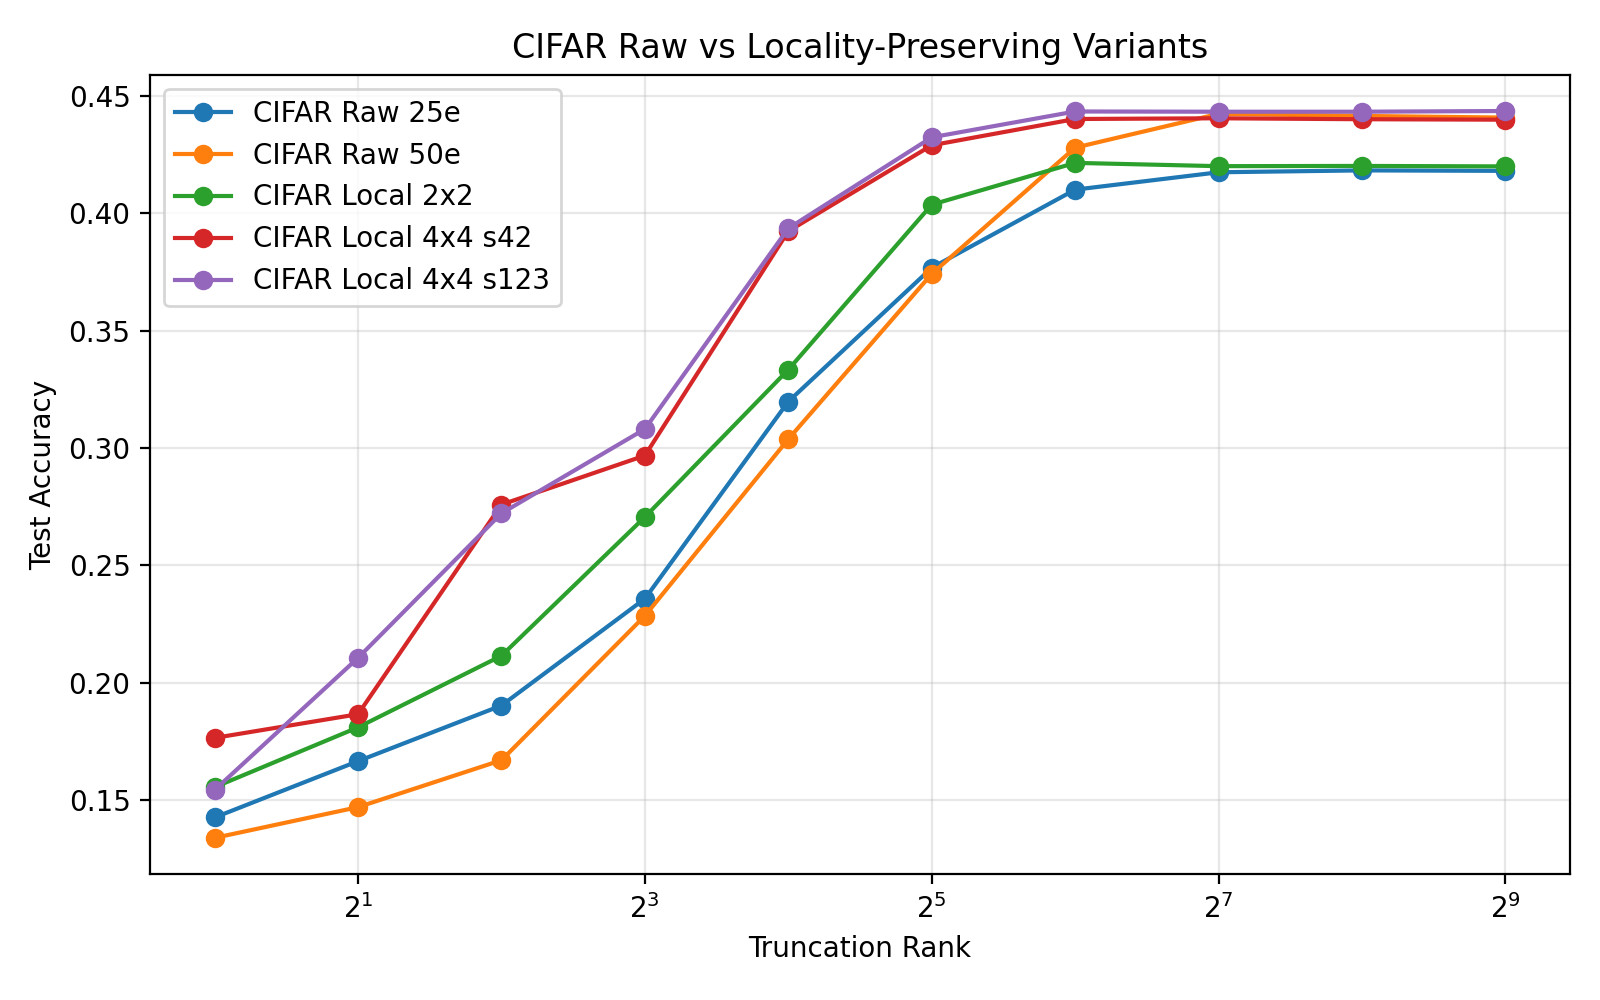
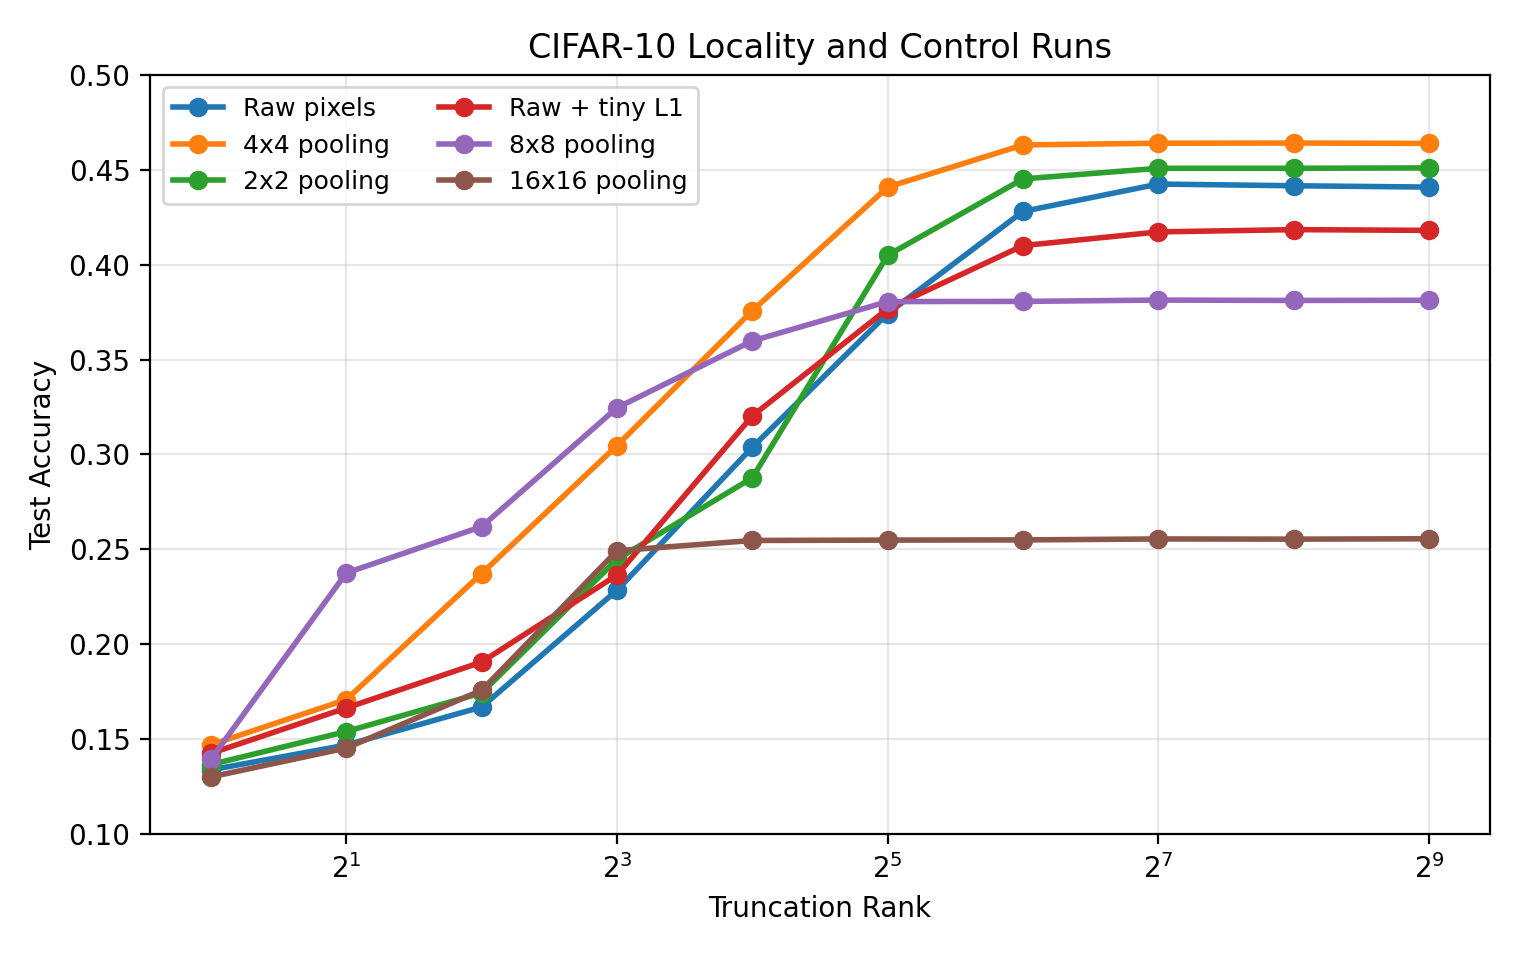
Finalize CIFAR report summary assets

Changed region(s): [[0.0, 0.0312, 0.9895, 0.9688], [0.8039, 0.2812, 0.8967, 0.3438], [0.5566, 0.5312, 0.6184, 0.5938]]

diff --git a/scripts/build_task_d_report_assets.py b/scripts/build_task_d_report_assets.py
@@ -59,14 +59,84 @@ RUNS = [
         'truncation': 'results/truncation/cifar10_locality4_seed123_mps_20260412-231948/test_truncation.csv',
         'kind': 'redesign',
     },
+    {
+        'label': 'CIFAR Local 4x4 50e',
+        'run_name': 'cifar10_locality4_50e_mps_20260427-224921',
+        'metrics': 'results/metrics/cifar10_locality4_50e_mps_20260427-224921/summary.json',
+        'truncation': 'results/truncation/cifar10_locality4_50e_mps_20260427-224921/test_truncation.csv',
+        'kind': 'redesign',
+    },
+    {
+        'label': 'CIFAR Local 4x4 50e wd=.01',
+        'run_name': 'cifar10_locality4_wd001_50e_mps_20260427-225245',
+        'metrics': 'results/metrics/cifar10_locality4_wd001_50e_mps_20260427-225245/summary.json',
+        'truncation': 'results/truncation/cifar10_locality4_wd001_50e_mps_20260427-225245/test_truncation.csv',
+        'kind': 'redesign',
+    },
+    {
+        'label': 'CIFAR Local 2x2 50e',
+        'run_name': 'cifar10_locality2_50e_mps_20260427-225510',
+        'metrics': 'results/metrics/cifar10_locality2_50e_mps_20260427-225510/summary.json',
+        'truncation': 'results/truncation/cifar10_locality2_50e_mps_20260427-225510/test_truncation.csv',
+        'kind': 'redesign',
+    },
+    {
+        'label': 'CIFAR Raw 25e + L1',
+        'run_name': 'cifar10_l1tiny_mps_20260422-203929',
+        'metrics': 'results/metrics/cifar10_l1tiny_mps_20260422-203929/summary.json',
+        'truncation': 'results/truncation/cifar10_l1tiny_mps_20260422-203929/test_truncation.csv',
+        'kind': 'control',
+    },
+    {
+        'label': 'CIFAR Local 8x8',
+        'run_name': 'cifar10_locality8_mps_20260422-204446',
+        'metrics': 'results/metrics/cifar10_locality8_mps_20260422-204446/summary.json',
+        'truncation': 'results/truncation/cifar10_locality8_mps_20260422-204446/test_truncation.csv',
+        'kind': 'redesign',
+    },
+    {
+        'label': 'CIFAR Local 16x16 s42',
+        'run_name': 'cifar10_locality16_mps_20260422-204115',
+        'metrics': 'results/metrics/cifar10_locality16_mps_20260422-204115/summary.json',
+        'truncation': 'results/truncation/cifar10_locality16_mps_20260422-204115/test_truncation.csv',
+        'kind': 'redesign',
+    },
+    {
+        'label': 'CIFAR Local 16x16 s123',
+        'run_name': 'cifar10_locality16_seed123_mps_20260422-204255',
+        'metrics': 'results/metrics/cifar10_locality16_seed123_mps_20260422-204255/summary.json',
+        'truncation': 'results/truncation/cifar10_locality16_seed123_mps_20260422-204255/test_truncation.csv',
+        'kind': 'redesign',
+    },
 ]
+
+PRIMARY_FIGURE_LABELS = {
+    'MNIST': 'MNIST baseline',
+    'CIFAR Raw 50e': 'CIFAR raw pixels',
+    'CIFAR Local 4x4 50e wd=.01': 'CIFAR 4x4 pooled',
+}
+
+CIFAR_FIGURE_LABELS = {
+    'CIFAR Raw 50e': 'Raw pixels',
+    'CIFAR Raw 25e + L1': 'Raw + tiny L1',
+    'CIFAR Local 2x2 50e': '2x2 pooling',
+    'CIFAR Local 4x4 50e wd=.01': '4x4 pooling',
+    'CIFAR Local 8x8': '8x8 pooling',
+    'CIFAR Local 16x16 s42': '16x16 pooling',
+}
 
 
 def build_summary_table(output_dir: Path) -> pd.DataFrame:
     rows = []
     for run in RUNS:
         metrics = pd.read_json(run['metrics'], typ='series')
+        history = pd.read_csv(Path(run['metrics']).with_name('metrics.csv'))
         truncation = pd.read_csv(run['truncation'])
+        truncation_summary = pd.read_json(
+            Path(run['truncation']).with_name('test_summary.json'),
+            typ='series',
+        )
+        rank_efficiency = truncation_summary['rank_efficiency']
         lookup = {int(row.rank): float(row.accuracy) for row in truncation.itertuples(index=False)}
         rows.append(
             {
@@ -74,35 +144,65 @@ def build_summary_table(output_dir: Path) -> pd.DataFrame:
                 'run_name': run['run_name'],
                 'kind': run['kind'],
                 'best_val_acc': float(metrics['best_val_acc']),
+                'best_val_loss': float(history['val_loss'].min()),
                 'test_acc': float(metrics['test_acc_at_best_val']),
                 'rank_16_acc': lookup.get(16),
                 'rank_32_acc': lookup.get(32),
                 'rank_64_acc': lookup.get(64),
                 'full_rank_acc': float(truncation.iloc[-1]['accuracy']),
+                'rank_for_90pct_full': rank_efficiency['rank_for_90pct_full'],
+                'rank_for_95pct_full': rank_efficiency['rank_for_95pct_full'],
+                'rank_for_99pct_full': rank_efficiency['rank_for_99pct_full'],
             }
         )
 
     table = pd.DataFrame(rows)
     table.to_csv(output_dir / 'task_d_summary_table.csv', index=False)
+
+    report_columns = {
+        'label': 'Run',
+        'kind': 'Kind',
+        'best_val_acc': 'Best Val Acc',
+        'best_val_loss': 'Best Val Loss',
+        'test_acc': 'Test Acc',
+        'rank_32_acc': 'Rank-32 Acc',
+        'rank_64_acc': 'Rank-64 Acc',
+        'rank_for_90pct_full': 'Rank @ 90%',
+        'rank_for_95pct_full': 'Rank @ 95%',
+        'rank_for_99pct_full': 'Rank @ 99%',
+    }
+    report_table = table[list(report_columns)].rename(columns=report_columns)
+    for column in ['Best Val Acc', 'Test Acc', 'Rank-32 Acc', 'Rank-64 Acc']:
+        report_table[column] = report_table[column].map(lambda value: f'{100.0 * value:.2f}%')
+    report_table['Best Val Loss'] = report_table['Best Val Loss'].map(lambda value: f'{value:.4f}')
+
     markdown_lines = [
-        '| ' + ' | '.join(table.columns) + ' |',
-        '| ' + ' | '.join(['---'] * len(table.columns)) + ' |',
+        '| ' + ' | '.join(report_table.columns) + ' |',
+        '| ' + ' | '.join(['---'] * len(report_table.columns)) + ' |',
     ]
-    for row in table.itertuples(index=False):
+    for row in report_table.itertuples(index=False):
         markdown_lines.append('| ' + ' | '.join(str(value) for value in row) + ' |')
     (output_dir / 'task_d_summary_table.md').write_text('\n'.join(markdown_lines) + '\n', encoding='utf-8')
     return table
 
 
 def plot_truncation_curves(output_dir: Path) -> None:
-    plt.figure(figsize=(8, 5))
-    for run in RUNS:
+    selected = [run for run in RUNS if run['label'] in PRIMARY_FIGURE_LABELS]
+    plt.figure(figsize=(7.2, 4.8))
+    for run in selected:
         truncation = pd.read_csv(run['truncation'])
-        plt.plot(truncation['rank'], truncation['accuracy'], marker='o', label=run['label'])
+        plt.plot(
+            truncation['rank'],
+            truncation['accuracy'],
+            marker='o',
+            linewidth=2.2,
+            label=PRIMARY_FIGURE_LABELS[run['label']],
+        )
     plt.xscale('log', base=2)
     plt.xlabel('Truncation Rank')
     plt.ylabel('Test Accuracy')
-    plt.title('Task D Truncation vs Accuracy')
+    plt.title('Bilinear Spectrum: MNIST vs CIFAR-10')
+    plt.ylim(0.1, 1.02)
     plt.legend()
     plt.grid(alpha=0.3)
     plt.tight_layout()
@@ -111,16 +211,23 @@ def plot_truncation_curves(output_dir: Path) -> None:
 
 
 def plot_cifar_comparison(output_dir: Path) -> None:
-    selected = [run for run in RUNS if run['label'].startswith('CIFAR')]
-    plt.figure(figsize=(8, 5))
+    selected = [run for run in RUNS if run['label'] in CIFAR_FIGURE_LABELS]
+    plt.figure(figsize=(7.6, 4.8))
     for run in selected:
         truncation = pd.read_csv(run['truncation'])
-        plt.plot(truncation['rank'], truncation['accuracy'], marker='o', label=run['label'])
+        plt.plot(
+            truncation['rank'],
+            truncation['accuracy'],
+            marker='o',
+            linewidth=2.0,
+            label=CIFAR_FIGURE_LABELS[run['label']],
+        )
     plt.xscale('log', base=2)
     plt.xlabel('Truncation Rank')
     plt.ylabel('Test Accuracy')
-    plt.title('CIFAR Raw vs Locality-Preserving Variants')
-    plt.legend()
+    plt.title('CIFAR-10 Locality and Control Runs')
+    plt.ylim(0.1, 0.5)
+    plt.legend(ncol=2, fontsize=9)
     plt.grid(alpha=0.3)
     plt.tight_layout()
     plt.savefig(output_dir / 'task_d_cifar_truncation_curves.png', dpi=200)
@@ -131,16 +238,19 @@ def write_narrative(summary: pd.DataFrame, output_dir: Path) -> None:
     raw_50 = summary.loc[summary['label'] == 'CIFAR Raw 50e'].iloc[0]
     local_42 = summary.loc[summary['label'] == 'CIFAR Local 4x4 s42'].iloc[0]
     local_123 = summary.loc[summary['label'] == 'CIFAR Local 4x4 s123'].iloc[0]
+    local_best = summary.loc[summary['label'] == 'CIFAR Local 4x4 50e wd=.01'].iloc[0]
 
     narrative = f"""# Task D Narrative
 
 ## Main finding
 
-Task D now supports a clean three-stage story:
+The CIFAR extension now supports a clean compatibility story:
 
 1. MNIST is strongly low-rank under the bilinear decomposition framework.
 2. Raw-pixel CIFAR-10 trains, but remains broad-spectrum even after longer training.
-3. Adding locality-preserving preprocessing makes CIFAR-10 substantially more compressible under the same decomposition analysis.
+3. Scalar controls such as width, weight decay, and tiny L1 do not fix that broad-spectrum behavior.
+4. Adding locality-preserving preprocessing makes CIFAR-10 substantially more compressible under the same decomposition analysis.
+5. The benefit is not monotone: `4x4` pooling is a strong regime, while `16x16` pooling overcompresses the task.
 
 ## Raw-pixel completion
 
@@ -152,19 +262,36 @@ Task D now supports a clean three-stage story:
 
 Interpretation: the raw-pixel CIFAR extension is complete, but the resulting spectrum remains broad.
 
+## Failed controls
+
+- Matched-budget tiny-L1 control: `cifar10_l1tiny_mps_20260422-203929`, test accuracy `0.4180`, rank-64 accuracy `0.4100`
+
+Interpretation: scalar regularization does not explain the pooled-model gain.
+
 ## Locality-preserving redesign
 
 - Seed 42 run: `{local_42['run_name']}`, test accuracy `{local_42['test_acc']:.4f}`, rank-64 accuracy `{local_42['rank_64_acc']:.4f}`
 - Seed 123 run: `{local_123['run_name']}`, test accuracy `{local_123['test_acc']:.4f}`, rank-64 accuracy `{local_123['rank_64_acc']:.4f}`
+- Tuned 50-epoch run: `{local_best['run_name']}`, test accuracy `{local_best['test_acc']:.4f}`, rank-64 accuracy `{local_best['rank_64_acc']:.4f}`
 
-Interpretation: the `4x4` locality-preserving redesign is stable across two seeds and reaches essentially full-rank performance by rank 64.
+Interpretation: the `4x4` locality-preserving redesign is stable across two seeds, clears the raw-student Task G baseline when trained for 50 epochs, and reaches essentially full-rank performance by rank 64.
+
+## Locality-strength tradeoff
+
+- Intermediate `8x8` pooling: `cifar10_locality8_mps_20260422-204446`, test accuracy `0.3812`, rank-32 accuracy `0.3805`
+- Aggressive `16x16` pooling: `cifar10_locality16_mps_20260422-204115`, test accuracy `0.2556`, rank-8 accuracy `0.2493`
+- Replication: `cifar10_locality16_seed123_mps_20260422-204255`, test accuracy `0.2570`, rank-8 accuracy `0.2543`
+
+Interpretation: stronger pooling keeps making the spectrum more compressible, but beyond `4x4` it removes too much semantic content from CIFAR-10.
 
 ## Report recommendation
 
-Frame Extension 1 as a negative-to-positive result:
+Frame Extension 1 / Task I as a compatibility result:
 
 - Raw-pixel CIFAR-10 shows that the MNIST result does not directly transfer.
+- Scalar controls do not fix the problem.
 - Locality-preserving CIFAR-10 shows that the weight-based analysis becomes much more compatible with natural images once basic spatial structure is restored.
+- The best regime is moderate locality bias, not maximal pooling.
 """
     (output_dir / 'task_d_narrative.md').write_text(narrative, encoding='utf-8')
 

diff --git a/report_assets/task_d/task_d_narrative.md b/report_assets/task_d/task_d_narrative.md
@@ -2,11 +2,13 @@
 
 ## Main finding
 
-Task D now supports a clean three-stage story:
+The CIFAR extension now supports a clean compatibility story:
 
 1. MNIST is strongly low-rank under the bilinear decomposition framework.
 2. Raw-pixel CIFAR-10 trains, but remains broad-spectrum even after longer training.
-3. Adding locality-preserving preprocessing makes CIFAR-10 substantially more compressible under the same decomposition analysis.
+3. Scalar controls such as width, weight decay, and tiny L1 do not fix that broad-spectrum behavior.
+4. Adding locality-preserving preprocessing makes CIFAR-10 substantially more compressible under the same decomposition analysis.
+5. The benefit is not monotone: `4x4` pooling is a strong regime, while `16x16` pooling overcompresses the task.
 
 ## Raw-pixel completion
 
@@ -18,16 +20,33 @@ Task D now supports a clean three-stage story:
 
 Interpretation: the raw-pixel CIFAR extension is complete, but the resulting spectrum remains broad.
 
+## Failed controls
+
+- Matched-budget tiny-L1 control: `cifar10_l1tiny_mps_20260422-203929`, test accuracy `0.4180`, rank-64 accuracy `0.4100`
+
+Interpretation: scalar regularization does not explain the pooled-model gain.
+
 ## Locality-preserving redesign
 
 - Seed 42 run: `cifar10_locality4_mps_20260412-231256`, test accuracy `0.4399`, rank-64 accuracy `0.4402`
 - Seed 123 run: `cifar10_locality4_seed123_mps_20260412-231948`, test accuracy `0.4436`, rank-64 accuracy `0.4434`
+- Tuned 50-epoch run: `cifar10_locality4_wd001_50e_mps_20260427-225245`, test accuracy `0.4638`, rank-64 accuracy `0.4630`
 
-Interpretation: the `4x4` locality-preserving redesign is stable across two seeds and reaches essentially full-rank performance by rank 64.
+Interpretation: the `4x4` locality-preserving redesign is stable across two seeds, clears the raw-student Task G baseline when trained for 50 epochs, and reaches essentially full-rank performance by rank 64.
+
+## Locality-strength tradeoff
+
+- Intermediate `8x8` pooling: `cifar10_locality8_mps_20260422-204446`, test accuracy `0.3812`, rank-32 accuracy `0.3805`
+- Aggressive `16x16` pooling: `cifar10_locality16_mps_20260422-204115`, test accuracy `0.2556`, rank-8 accuracy `0.2493`
+- Replication: `cifar10_locality16_seed123_mps_20260422-204255`, test accuracy `0.2570`, rank-8 accuracy `0.2543`
+
+Interpretation: stronger pooling keeps making the spectrum more compressible, but beyond `4x4` it removes too much semantic content from CIFAR-10.
 
 ## Report recommendation
 
-Frame Extension 1 as a negative-to-positive result:
+Frame Extension 1 / Task I as a compatibility result:
 
 - Raw-pixel CIFAR-10 shows that the MNIST result does not directly transfer.
+- Scalar controls do not fix the problem.
 - Locality-preserving CIFAR-10 shows that the weight-based analysis becomes much more compatible with natural images once basic spatial structure is restored.
+- The best regime is moderate locality bias, not maximal pooling.

diff --git a/report_assets/task_d/task_d_summary_table.md b/report_assets/task_d/task_d_summary_table.md
@@ -1,8 +1,15 @@
-| label | run_name | kind | best_val_acc | test_acc | rank_16_acc | rank_32_acc | rank_64_acc | full_rank_acc |
-| --- | --- | --- | --- | --- | --- | --- | --- | --- |
-| MNIST | mnist_pilot_mps_20260412-223552 | baseline | 0.9671666666666661 | 0.9684 | 0.9686 | 0.9686 | 0.9684 | 0.9684 |
-| CIFAR Raw 25e | cifar10_headline_mps_20260412-223650 | baseline | 0.4258 | 0.4181 | 0.3198 | 0.3768 | 0.4101 | 0.4181 |
-| CIFAR Raw 50e | cifar10_completion_mps_20260412-225712 | baseline | 0.44520000000000004 | 0.4408 | 0.3038 | 0.3742 | 0.428 | 0.4408 |
-| CIFAR Local 2x2 | cifar10_locality_mps_20260412-230328 | redesign | 0.4328 | 0.42 | 0.3334 | 0.4037 | 0.4215 | 0.42 |
-| CIFAR Local 4x4 s42 | cifar10_locality4_mps_20260412-231256 | redesign | 0.43260000000000004 | 0.4399 | 0.3924 | 0.429 | 0.4402 | 0.4399 |
-| CIFAR Local 4x4 s123 | cifar10_locality4_seed123_mps_20260412-231948 | redesign | 0.436 | 0.4436 | 0.3936 | 0.4324 | 0.4434 | 0.4436 |
+| Run | Kind | Best Val Acc | Best Val Loss | Test Acc | Rank-32 Acc | Rank-64 Acc | Rank @ 90% | Rank @ 95% | Rank @ 99% |
+| --- | --- | --- | --- | --- | --- | --- | --- | --- | --- |
+| MNIST | baseline | 96.72% | 0.1238 | 96.84% | 96.86% | 96.84% | 4 | 8 | 8 |
+| CIFAR Raw 25e | baseline | 42.58% | 1.7749 | 41.81% | 37.68% | 41.01% | 32 | 64 | 128 |
+| CIFAR Raw 50e | baseline | 44.52% | 1.7396 | 44.08% | 37.42% | 42.80% | 64 | 64 | 128 |
+| CIFAR Local 2x2 | redesign | 43.28% | 1.7451 | 42.00% | 40.37% | 42.15% | 32 | 32 | 64 |
+| CIFAR Local 4x4 s42 | redesign | 43.26% | 1.7090 | 43.99% | 42.90% | 44.02% | 32 | 32 | 64 |
+| CIFAR Local 4x4 s123 | redesign | 43.60% | 1.7120 | 44.36% | 43.24% | 44.34% | 32 | 32 | 64 |
+| CIFAR Local 4x4 50e | redesign | 45.74% | 1.6624 | 46.12% | 44.30% | 45.94% | 32 | 32 | 64 |
+| CIFAR Local 4x4 50e wd=.01 | redesign | 45.92% | 1.6589 | 46.38% | 44.08% | 46.30% | 32 | 32 | 64 |
+| CIFAR Local 2x2 50e | redesign | 45.66% | 1.7032 | 45.09% | 40.49% | 44.51% | 64 | 64 | 128 |
+| CIFAR Raw 25e + L1 | control | 42.60% | 1.7751 | 41.80% | 37.67% | 41.00% | 32 | 64 | 128 |
+| CIFAR Local 8x8 | redesign | 38.26% | 1.8635 | 38.12% | 38.05% | 38.06% | 16 | 32 | 32 |
+| CIFAR Local 16x16 s42 | redesign | 26.04% | 2.1274 | 25.56% | 25.49% | 25.50% | 8 | 8 | 16 |
+| CIFAR Local 16x16 s123 | redesign | 25.18% | 2.1271 | 25.70% | 25.67% | 25.67% | 8 | 8 | 16 |
